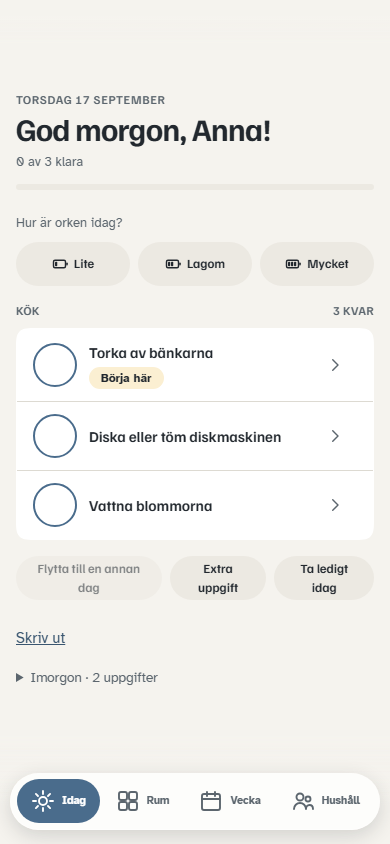
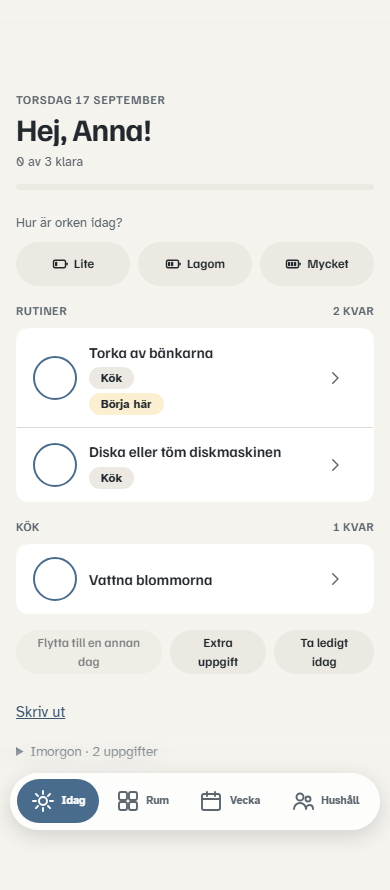
docs(guider): redigerbar plan och rutiner först
sv/hushallsansvarig.html: kapitlet om Planera veckan förklarar nu att ett
besök går att flytta till en annan dag i förhandsvisningen, och att flytten
låser besöket dit precis som "Alltid på en viss dag".

sv/familjen.html: "Din dag" nämner att rutinerna alltid ligger överst.

Skärmbilderna för Idag och Planera veckan togs om (GuideSkarmbilderTests) -
enda två som faktiskt påverkas av de här stegen; övrig churn från samma
körning (slumpmässig e-post/inbjudningskod) är återställd.

docs/ARCHITECTURE.md: nya Beslut-sektioner för redigerbar plan (flytt låser,
återanvänder lås-mekaniken) och rutiner alltid först (ny första ordningsregel
i DailyPlanner, med den dokumenterade avvägningen mot icke uppskjutbara
uppgifter). docs/DESIGN.md: dagväljaren i arket och Rutiner-gruppen på Idag.

diff --git a/src/Hemordna.Client/wwwroot/hjalp/sv/hushallsansvarig.html b/src/Hemordna.Client/wwwroot/hjalp/sv/hushallsansvarig.html
@@ -276,13 +276,15 @@ window.GUIDE = {
                 + "<ol class='gor'>"
                 + "  <li>Gå till <span class='ui'>Rum</span> och tryck <span class='ui'>Planera veckan</span>.</li>"
                 + "  <li>Bläddra igenom förslaget, dag för dag.</li>"
+                + "  <li>Passar en annan dag bättre för ett besök? Välj den i besökets egen dagväljare.</li>"
                 + "  <li>Tryck <span class='ui'>Använd</span> för att spara det, eller "
                 + "      <span class='ui'>Avbryt</span> för att låta allt vara.</li>"
                 + "</ol>"
 
                 + "<div class='shots'>"
                 + "  <figure><div class='telefon'><img src='../img/mobil_planera-veckan.png' alt='Förslag per veckodag' loading='lazy'></div>"
-                + "    <figcaption><b>Förslaget</b> – rum och minuter per dag, aldrig ett tal per person.</figcaption></figure>"
+                + "    <figcaption><b>Förslaget</b> – rum och minuter per dag, aldrig ett tal per person. "
+                + "Varje besök har en egen dagväljare.</figcaption></figure>"
                 + "</div>"
 
                 + "<div class='notis'><p><strong>Gäller framåt.</strong> Det som redan ligger ute på "
@@ -292,8 +294,11 @@ window.GUIDE = {
                 + "storstädning för sig, och de korta dagliga sysslorna (som att tömma diskmaskinen) "
                 + "räknas inte in eftersom de görs varje dag ändå.</p></div>"
 
-                + "<div class='notis tips'><strong>Ett besök markerat \"alltid tisdag\"</strong> ligger "
-                + "fast oavsett förslag - se <a href='#alltid-pa'>Alltid på en viss dag</a>.</div>"
+                + "<div class='notis tips'><strong>En flytt låser besöket till den nya dagen</strong> - "
+                + "precis som en uppgift satt \"alltid tisdag\" ligger fast oavsett förslag, se "
+                + "<a href='#alltid-pa'>Alltid på en viss dag</a>. Nästa <span class='ui'>Planera "
+                + "veckan</span> flyttar det därför inte tillbaka. Passar ingen dag hushållets ork "
+                + "för ett tungt besök, går flytten ändå igenom - appen säger bara till lugnt om det.</div>"
         },
         {
             id: "pausa",

diff --git a/src/Hemordna.Client/wwwroot/hjalp/sv/familjen.html b/src/Hemordna.Client/wwwroot/hjalp/sv/familjen.html
@@ -52,9 +52,13 @@ window.GUIDE = {
                 + "har kvar.</p>"
 
                 + "<div class='shots'>"
-                + "  <figure><div class='telefon'><img src='../img/mobil_idag.png' alt='Dagens uppgifter grupperade per rum' loading='lazy'></div>"
-                + "    <figcaption><b>Idag</b> – dina uppgifter, grupperade per rum.</figcaption></figure>"
+                + "  <figure><div class='telefon'><img src='../img/mobil_idag.png' alt='Dagens uppgifter, rutiner överst och resten grupperat per rum' loading='lazy'></div>"
+                + "    <figcaption><b>Idag</b> – dina rutiner överst, sedan resten grupperat per rum.</figcaption></figure>"
                 + "</div>"
+
+                + "<div class='notis'><p><strong>Rutiner</strong> – de korta dagliga sysslorna, som att "
+                + "bädda sängen eller vädra – står alltid överst, oavsett rum. De ska aldrig kunna "
+                + "knuffas undan av en tyngre uppgift.</p></div>"
 
                 + "<h3>Så här gör du</h3>"
                 + "<ol class='gor'>"

diff --git a/tests/Hemordna.E2E.Tests/GuideSkarmbilderTests.cs b/tests/Hemordna.E2E.Tests/GuideSkarmbilderTests.cs
@@ -139,7 +139,9 @@ public class GuideSkarmbilderTests
         // weekly-budget above - so the greedy placement concentrates real besök on
         // Saturday/Sunday. Scroll there so the screenshot shows an actual besök, not several
         // "Inga besök" rows in a row.
-        await weeklyPlanSheet.GetByText("Söndag").ScrollIntoViewIfNeededAsync();
+        // .list-name (the day heading), not GetByText("Söndag") - the new per-visit day picker
+        // (Björns krav, "Planera veckan går att ändra") also offers "Söndag" as an <option>.
+        await weeklyPlanSheet.Locator(".list-name", new() { HasText = "Söndag" }).ScrollIntoViewIfNeededAsync();
         await ShootViewportAsync(page, "planera-veckan");
         await weeklyPlanSheet.GetByRole(AriaRole.Button, new() { Name = "Avbryt" }).ClickAsync();
 

diff --git a/docs/ARCHITECTURE.md b/docs/ARCHITECTURE.md
@@ -668,19 +668,21 @@ Tillämpas i denna ordning:
 
 | # | Regel | Varför |
 |---|---|---|
-| 1 | Icke uppskjutbara först | De kan inte flyttas till en annan dag alls – förlorar de budgeten är de förlorade |
-| 2 | Förfallna före det som förfaller idag | Något som redan är sent ska inte fortsätta halka |
-| 3 | Högre prioritet före lägre | Hushållets uttalade viktning |
-| 4 | Tidigast ursprungligt förfallodatum först | Äldst arbete leder |
-| 5 | Delar rum/våning med något redan valt idag (2026-09-08) | Se "Beslut: rums-/våningsklustring" nedan - bara en mjuk preferens bland redan likvärdiga kandidater |
-| 6 | Kortare uppgift först | Vid lika ställning: att bli klar slår att påbörja, och mer ryms i budgeten |
-| 7 | `ChoreSequenceHint.RankFor` (2026-09-07) | Ett fåtal kända "gör X före Y"-par, se nedan |
-| 8 | Occurrence-id stigande | Stabil slutlig tie-break som gör ordningen total |
+| 1 | Rutiner (`VisitKind.Routine`) alltid först | Björns beslut: "överst och alltid med" - se "Beslut: rutiner alltid först" nedan |
+| 2 | Icke uppskjutbara först bland resten | De kan inte flyttas till en annan dag alls – förlorar de budgeten är de förlorade |
+| 3 | Förfallna före det som förfaller idag | Något som redan är sent ska inte fortsätta halka |
+| 4 | Högre prioritet före lägre | Hushållets uttalade viktning |
+| 5 | Tidigast ursprungligt förfallodatum först | Äldst arbete leder |
+| 6 | Delar rum/våning med något redan valt idag (2026-09-08) | Se "Beslut: rums-/våningsklustring" nedan - bara en mjuk preferens bland redan likvärdiga kandidater |
+| 7 | Kortare uppgift först | Vid lika ställning: att bli klar slår att påbörja, och mer ryms i budgeten |
+| 8 | `ChoreSequenceHint.RankFor` (2026-09-07) | Ett fåtal kända "gör X före Y"-par, se nedan |
+| 9 | Occurrence-id stigande | Stabil slutlig tie-break som gör ordningen total |
 
-Regel 1 före regel 2 och 3 är ett medvetet val: en förfallen uppgift kan fortfarande flyttas,
-en icke uppskjutbar kan inte det.
+Regel 2 före regel 3 och 4 är ett medvetet val: en förfallen uppgift kan fortfarande flyttas,
+en icke uppskjutbar kan inte det. Regel 1 går före regel 2 på samma sätt, fast starkare - se
+"Beslut: rutiner alltid först" nedan för avvägningen det innebär.
 
-**`ChoreSequenceHint`** (regel 7) är en medvetet SMAL nudge, inte ett generellt
+**`ChoreSequenceHint`** (regel 8) är en medvetet SMAL nudge, inte ett generellt
 städordnings-system - efterfrågat konkret: dammsug (eller sopa) golvet innan man torkar det,
 eftersom smuts annars bara flyttas runt. Ren nyckelordsmatchning på uppgiftsnamnet
 (`"torka golvet"`/`"moppa"` rankas efter `"dammsug"`/`"sopa golvet"`), tillämpad EFTER allt
@@ -794,12 +796,63 @@ våning.
 Min dag" (ovan) fick sin egen uppföljning att INTE upprepa rummets namn som en chip på raden
 (rumsrubriken räcker) togs våningsprefixet bort från chippen rakt av
 (`Support.RoomFloors.RoomNameOf`) - men chippen visas numera BARA i "Sedan tidigare", den enda
-platsen en rad saknar både rums- OCH våningsrubrik. Två olika rum med samma namn på olika
+platsen en rad saknar både rums- OCH våningsrubrik (2026-09 - se dock "Beslut: rutiner alltid
+först" nedan för en ANDRA plats en rad numera saknar rumsrubrik, med motsatt val: kort
+rumsnamn, inte hela `AreaName`, av ett annat skäl). Två olika rum med samma namn på olika
 våningar (två "Hall") blev då omöjliga att skilja åt där. `TaskListItem`s chip visar nu hela
 `AreaName` (våningsprefixet inkluderat) igen - eftersom chippen bara någonsin renderas i just
 det kontext som saknar all annan disambiguering, är den fulla strängen alltid rätt val där.
 Ny regressionstest, `MinDagDetailTests
 .An_overdue_rooms_chip_keeps_its_floor_prefix_to_tell_two_same_named_rooms_apart`.
+
+---
+
+### Beslut: rutiner alltid först — `IMPLEMENTED`
+
+Björns beslut: "överst och alltid med". En daglig rutin (`VisitKind.Routine`, se "Beslut:
+Besökstyp härleds" ovan - samma klassificering, inte en ny) ska aldrig kunna knuffas bort av en
+tyngre uppgift som råkar vinna på prioritet, förfallodatum eller storlek - en tung veckouppgift
+ska inte kunna tränga undan bäddning eller vädring bara för att den är mer uppskjutbar-vänlig
+eller högre prioriterad.
+
+**`DailyPlanner`s första ordningsregel, före allt annat** - se tabellen ovan. En medveten
+avvägning, värd att vara tydlig om: en uppgift som inte kan skjutas upp alls (regel 2, tidigare
+regel 1) kommer nu EFTER rutinerna, trots att den normalt är den starkaste regeln (att förlora
+dess budget förlorar uppgiften helt, medan en rutin bara återkommer imorgon ändå). Björns krav var
+uttryckligt starkare: rutiner är "alltid med", oavsett vad de konkurrerar mot.
+
+**`PlanCandidate.IsRoutine`** - en ny bool, satt av `PlanCandidateQuery` via samma join mot
+uppgiftsdefinitionen som redan hämtar namn/rum/beskrivning, klassificerat med
+`VisitKindClassifier.Of(Recurrence, Effort)` EFTER materialisering (samma mönster, och samma skäl,
+som `TaskOccurrenceRepository.GetMemberIdsByAreaAndVisitKindOnDateAsync` redan använder -
+`Recurrence` är en JSON-kolumn bakom en value converter, inte översättbar till SQL).
+`DailyPlanner` förblir en ren, deterministisk funktion - `IsRoutine` är bara ytterligare ett fält
+på indata, ingen ny dependency.
+
+**Min dag (`MinDag.razor`):** en egen grupp **"Rutiner"** överst - före till och med
+eftersläpningsnotisen ("N uppgifter är sedan tidigare") - med alla dagens rutiner oavsett rum.
+`RoomGroups` och `OverdueItems` exkluderar numera rutiner (en rutin gör inte anspråk på
+eftersläpningsnotisen/ombalanseringserbjudandet - den återkommer i morgon oavsett, det är inte
+den sortens backlogg funktionen finns för). En rutin som samtidigt är förfallen ligger KVAR i
+Rutiner, med sin egen "sedan tidigare"-notis och sorterad först i gruppen - den flyttas
+ingenstans annorstans.
+
+**En andra plats en rad visar rummet som chip** (utöver "Sedan tidigare", se ovan) - men med
+motsatt val: `TaskListItem.StripFloorFromAreaChip` (ny parameter) visar rummets namn UTAN
+våningsprefix i Rutiner-gruppen, eftersom syftet är att säga VILKET RUM rutinen hör till, inte
+att skilja två likanamnda rum åt på olika våningar (det syftet finns bara i "Sedan tidigare").
+
+**Alla renderingsvägar delar samma ordning:** den vanliga listan, utskriften (`_isPrinting`) och
+`FocusOrder` (fokusläget, "En uppgift åt gången") sätter alla `RoutineItems` (rutiner,
+förfallna sorterade först) FÖRE resten - `FocusOrder` konkatenerar `RoutineItems.Concat(...)` i
+stället för att lägga till en särskild gren, så "Visa nästa" och "Börja här" pekar på samma
+uppgift som toppen av listan skulle visat.
+
+**Tester:** `DailyPlannerTests` (en rutin planeras före en tyngre uppgift som annars skulle vunnit
+på prioritet, och även före en uppgift som inte kan skjutas upp alls - den dokumenterade
+avvägningen), `TaskGroupingTests.Routines_are_grouped_first_regardless_of_room_and_the_rest_
+follows_in_room_order` (E2E: rutinerna ligger överst, resten i rumsordning, chippen saknar
+våningsprefix). Alla nya beteendetest bevisade falla innan respektive rättning fanns.
 
 ---
 
@@ -3632,6 +3685,67 @@ en låst uppgift, även i ett scenario som skulle flyttat den om den vore olåst
 rensa låset rör inte `Recurrence`), samt `TaskDefinitionTests` för domäninvarianten. Minst ett
 E2E (`AlwaysOnWeekdayTests`): sätta en veckodag överlever en reload, och raden visas aldrig för
 en daglig uppgift. Alla nya beteendetest bevisade falla innan respektive rättning fanns.
+
+### Beslut: redigerbar plan — `IMPLEMENTED`
+
+Björns krav: "Planera veckan" ska gå att ändra, inte bara godkännas rakt av. Löser detta genom
+att ÅTERANVÄNDA lås-mekaniken "Alltid på en viss veckodag" (ovan) byggde, i stället för en andra
+placeringsväg - exakt vad Björn efterfrågade uttryckligen.
+
+**`PlaceableVisit.VisitKey`** (ny, `Guid`, beräknad egenskap) - det minsta uppgifts-id:t besöket
+bär. Stabil mellan förhandsvisningsanrop inom samma redigeringssession, eftersom
+`WeeklyPlacementBuilder`s egen gruppering (rum/besökstyp, vidare delad av ett befintligt lås) bara
+beror på hushållets lagrade state, aldrig på en pågående flytt - grupperingen är alltså opåverkad
+av vilka flyttar som skickas in, bara VAR ett redan grupperat besök hamnar. En rumslös uppgift är
+sitt eget besök, så dess `VisitKey` blir helt enkelt dess egen `TaskDefinitionId`.
+
+**`WeeklyPlacementBuilder.ApplyMoves`** (ny) - lägger hushållsmedlemmens egna flyttar
+(`IReadOnlyDictionary<Guid VisitKey, DayOfWeek>`) ovanpå en redan byggd besökslista genom att
+sätta `PlaceableVisit.LockedWeekday`, PRECIS samma fält ett befintligt `PreferredWeekday`-lås
+redan använder. `WeeklyPlacementPlanner` behöver därmed ingen ändring alls - den vet inte, och
+behöver inte veta, om ett `LockedWeekday` kommer från en flytt eller ett riktigt lås. En flytt
+övertrumfar ett besöks eventuella befintliga lås (samma fält skrivs över).
+
+**`PreviewWeeklyPlan`/`ApplyWeeklyPlan`** tar båda emot samma `moves`-parameter, bygger besöken,
+kör `ApplyMoves`, och planerar. `PreviewWeeklyPlan` beräknar dessutom `EffortWarningDays` - de
+veckodagar en flyttad visit landar på trots att ingen aktiv medlems `WeeklyEffortCeiling`
+täcker dess tyngd (kravet vinner - ingen ork-kontroll för lås/flytt, se planerarens egna regler -
+men klienten ska ändå kunna visa en lugn notis om det i stället för att tiga).
+
+**Beslut: ett flyttat besök låses** (`ApplyWeeklyPlan`). Varje uppgift i ett flyttat besök får
+`TaskDefinition.PreferredWeekday` satt till den valda dagen via
+`RecurrenceReanchoring.LockToWeekday` (ny, delad metod - samma "sätt kravet, ankra om vid behov"-
+sekvens `SetTaskPreferredWeekday` redan använde, nu på EN plats i stället för två). Nästa
+"Planera veckan" flyttar därför inte tillbaka det. Flyttas ett besök som redan var låst till en
+ANNAN dag, byts låset till den nya dagen - `ApplyWeeklyPlan`s "hoppa över redan låst"-gren (för
+ORÖRDA lås) gäller uttryckligen inte flyttade besök, som alltid går igenom `LockToWeekday`
+oavsett tidigare låsstatus. "Gäller framåt" hålls: precis som all annan omankring i det här
+dokumentet ankras den nya `RecurrenceRule` från `today`, aldrig den gamla kursorn - ingen
+dubblett, inget hopp, redan utlagt arbete orört.
+
+**API:** `GET .../weekly-plan` blev `POST .../weekly-plan/preview` - flyttar är strukturerad
+indata (`WeeklyPlanMoveRequest[]`, visit-nyckel + veckodag) som inte passar en query-sträng, och
+endpointen är fortfarande utan sidoeffekter trots verbet. `WeeklyPlanVisitResponse.VisitKey`
+(ny) och `WeeklyPlanResponse.EffortWarningDays` (ny) följer med. `ApplyWeeklyPlanRequest` fick
+samma `Moves`-lista - måste vara EXAKT de flyttar förhandsvisningen som visades beräknades med,
+annars stämmer inte det som sparas med det som visats.
+
+**UI (`WeeklyPlanSheet.razor`):** varje besöksrad får en `<select>` (måndag–söndag) bunden till
+den dag besöket just nu visas under; att välja en annan dag lägger till/uppdaterar en post i
+klientens egna `_moves` (`Dictionary<Guid, string>`) och skickar om HELA förhandsvisningen -
+klienten räknar aldrig ut en placering själv, bara vilken dag som valts. Ett flyttat besök visas
+med samma lugna "· alltid X" som ett riktigt lås (sant nog: det blir det så fort "Använd"
+trycks). En rad `EffortWarningDays` renderas som "Ingen orkar tunga uppgifter på {dag}." - lugn
+notis, ingen spärr. `_moves` rensas när arket stängs eller en plan används.
+
+**Tester:** `PreviewWeeklyPlanTests` (en flytt placerar besöket på vald dag och resten sprids
+runt det, en flytt till en dag ingen orkar tyngden för placeras ändå där och ger en varning),
+`ApplyWeeklyPlanTests` (ett flyttat besöks alla uppgifter låses, utan att röra redan utlagt
+arbete eller duplicera/hoppa över nästa förekomst; flytt av ett redan låst besök byter låset;
+en flytt till samma dag som ett befintligt lås räknas inte som en ändring). Minst ett E2E
+(`WeeklyPlanTests.Moving_a_visit_in_the_sheet_and_using_the_plan_locks_it_to_the_chosen_day`):
+flytta ett besök i arket, använd, öppna igen efter en riktig reload och se att det ligger kvar
+låst. Alla nya beteendetest bevisade falla innan respektive rättning fanns.
 
 | Fråga | Varför den väntar |
 |---|---|
